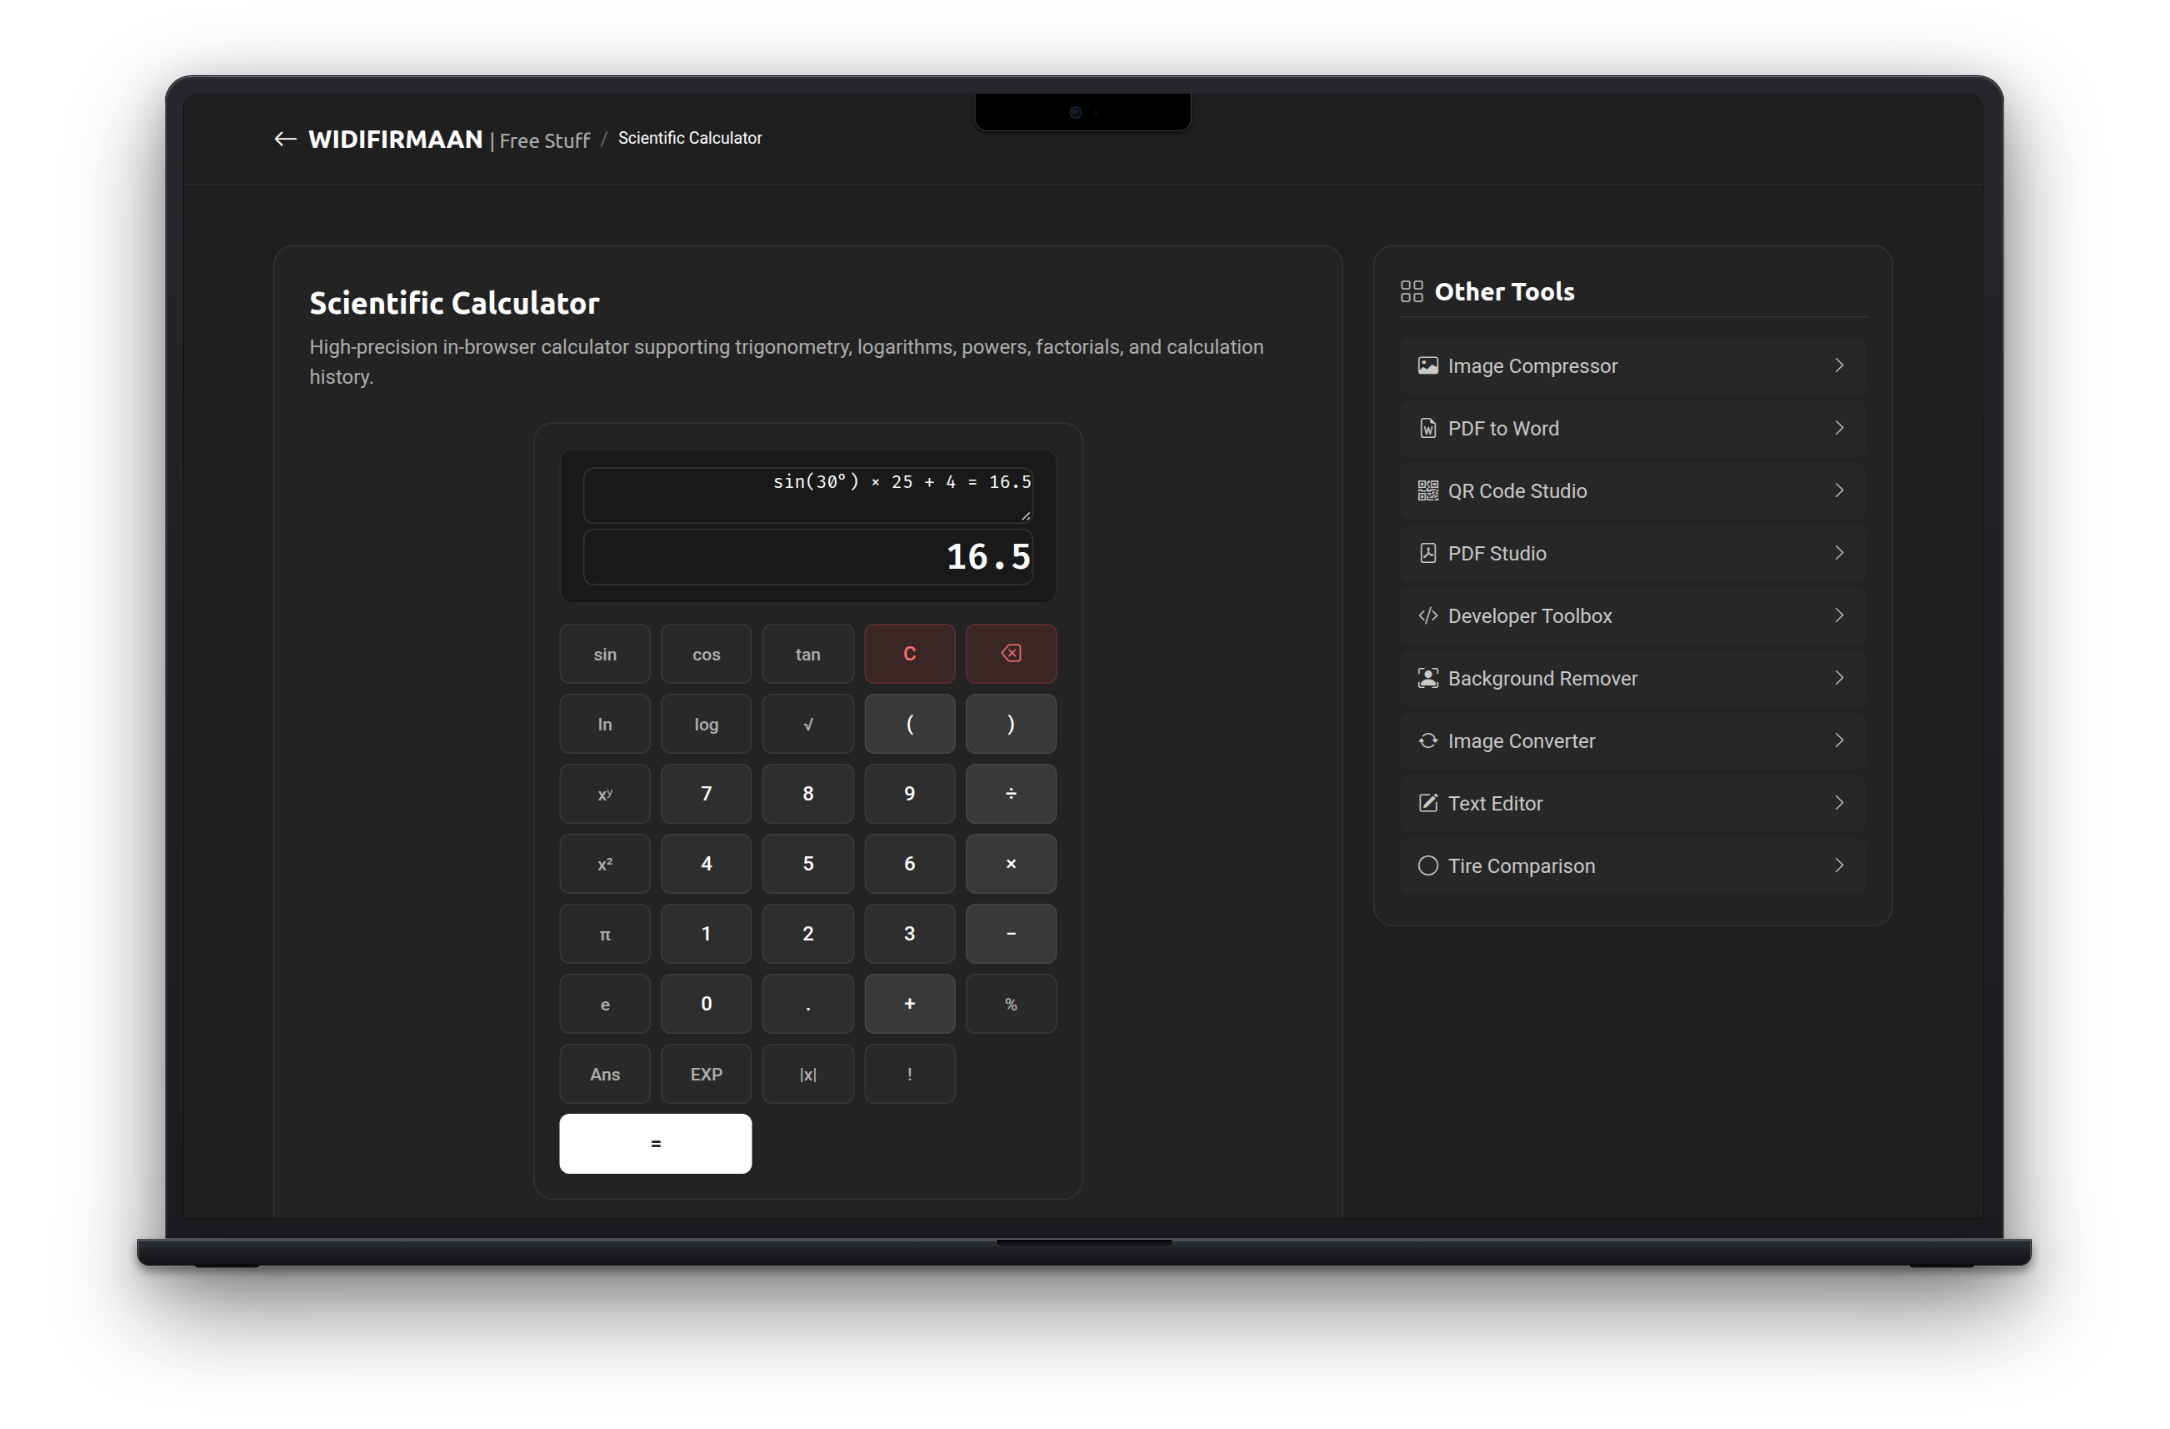
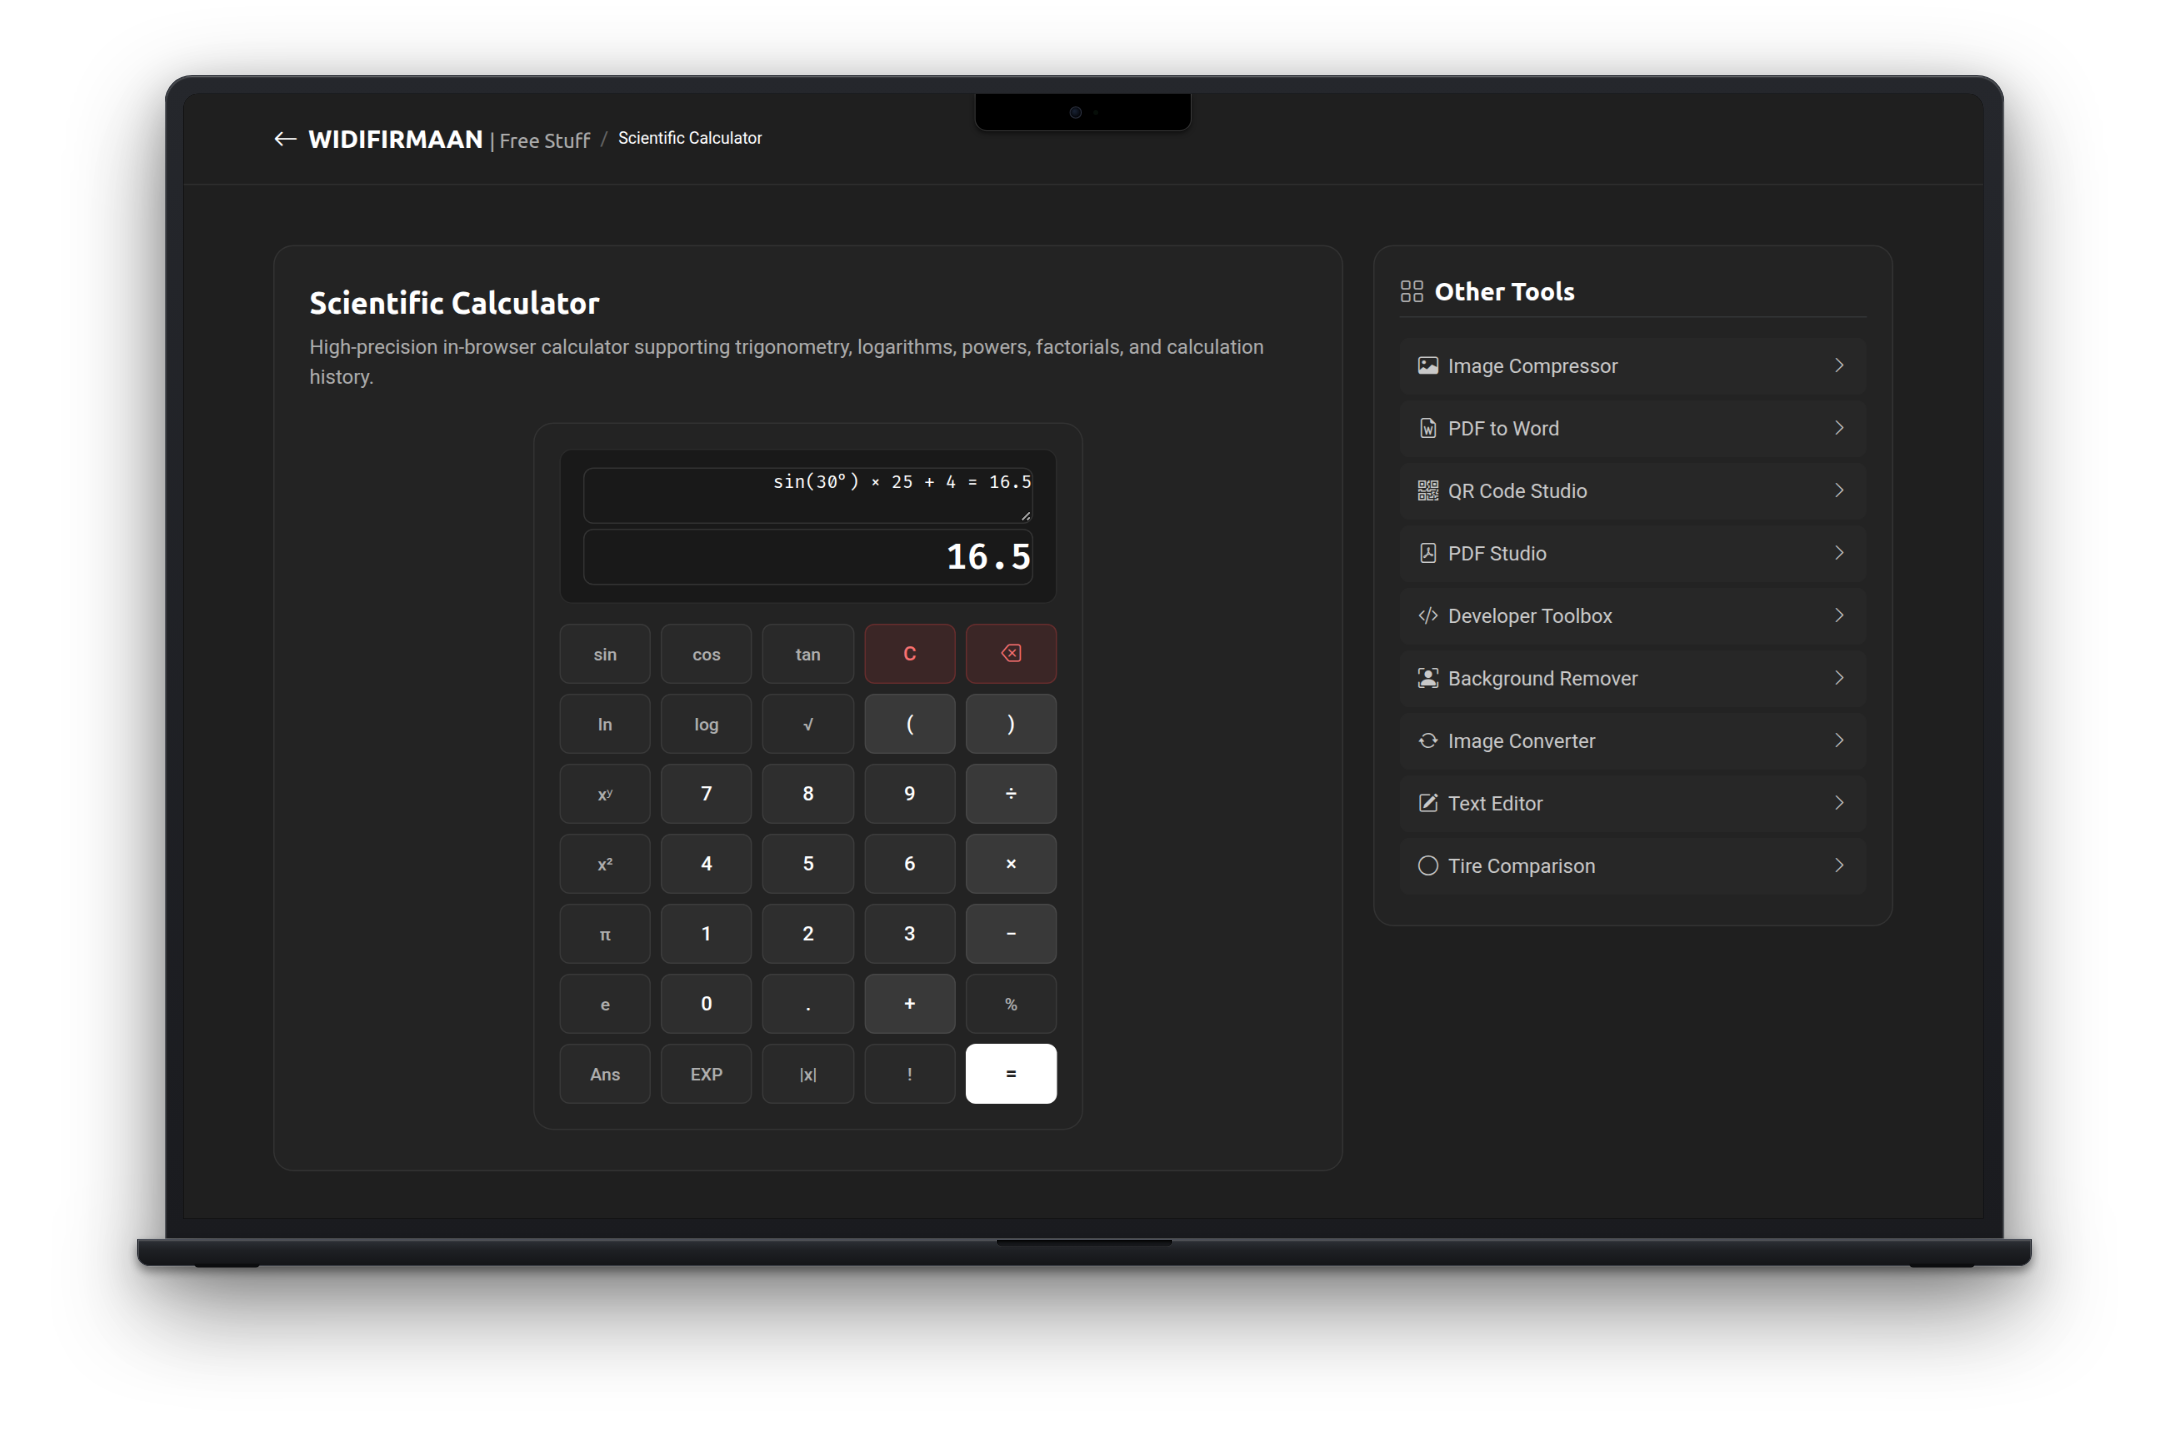
fix(ui): clean result box slop, support scanned images in pdf-to-word, align calc equal button, clean tire ui, fix bg remover progress

Changed region(s): [[0.247, 0.7698, 0.3705, 0.8314], [0.4323, 0.7082, 0.494, 0.7698]]

diff --git a/tools/tire-comp.html b/tools/tire-comp.html
@@ -18,8 +18,8 @@
 
   <style>
     .tire-container {
-      width: 140px;
-      height: 140px;
+      width: 130px;
+      height: 130px;
       display: flex;
       align-items: center;
       justify-content: center;
@@ -29,9 +29,8 @@
       width: 100%;
       height: 100%;
       border-radius: 50%;
-      background: radial-gradient(circle, #333 40%, #111 70%, #000 100%);
-      border: 8px solid #222;
-      box-shadow: 0 4px 15px rgba(0,0,0,0.6);
+      background: rgba(255, 255, 255, 0.03);
+      border: 4px solid rgba(255, 255, 255, 0.2);
       display: flex;
       align-items: center;
       justify-content: center;
@@ -42,14 +41,15 @@
       width: 55%;
       height: 55%;
       border-radius: 50%;
-      background: radial-gradient(circle, #777 0%, #444 80%, #222 100%);
-      border: 2px solid #888;
+      background: rgba(255, 255, 255, 0.06);
+      border: 2px dashed rgba(255, 255, 255, 0.4);
       display: flex;
       align-items: center;
       justify-content: center;
-      color: #aaa;
-      font-size: 0.75rem;
-      font-weight: bold;
+      color: #ffffff;
+      font-size: 0.8rem;
+      font-weight: 600;
+      font-family: 'Fira Code', monospace;
     }
   </style>
 </head>
@@ -89,10 +89,9 @@
               <div class="row g-3 mb-4">
                 <!-- Tire 1 (Original) -->
                 <div class="col-md-6">
-                  <div class="p-3 rounded border border-secondary border-opacity-25" style="background: #18181b;">
+                  <div class="p-3 rounded border border-secondary border-opacity-25" style="background: rgba(255, 255, 255, 0.02);">
                     <div class="d-flex justify-content-between align-items-center mb-3">
-                      <h6 class="text-primary fw-bold mb-0"><i class="bi bi-disc me-1"></i> Ban 1 (Standar / OEM)</h6>
-                      <span class="text-secondary small fw-semibold">Standar</span>
+                      <h6 class="text-white fw-bold mb-0"><i class="bi bi-disc me-2 text-secondary"></i>Tire 1 (OEM / Standar)</h6>
                     </div>
 
                     <div class="mb-2">
@@ -112,10 +111,9 @@
 
                 <!-- Tire 2 (New) -->
                 <div class="col-md-6">
-                  <div class="p-3 rounded border border-secondary border-opacity-25" style="background: #18181b;">
+                  <div class="p-3 rounded border border-secondary border-opacity-25" style="background: rgba(255, 255, 255, 0.02);">
                     <div class="d-flex justify-content-between align-items-center mb-3">
-                      <h6 class="text-success fw-bold mb-0"><i class="bi bi-disc-fill me-1"></i> Ban 2 (Baru / Pengganti)</h6>
-                      <span class="text-success small fw-semibold">Baru</span>
+                      <h6 class="text-white fw-bold mb-0"><i class="bi bi-disc me-2 text-secondary"></i>Tire 2 (Pengganti / Baru)</h6>
                     </div>
 
                     <div class="mb-2">
@@ -135,53 +133,53 @@
               </div>
 
               <div class="d-flex justify-content-center mb-4">
-                <button type="button" id="calculateBtn" class="btn btn-primary rounded-pill px-5 py-2 fw-semibold">
+                <button type="button" id="calculateBtn" class="btn btn-primary px-4 py-2 fw-semibold">
                   <i class="bi bi-calculator me-1"></i> Hitung Perbandingan Ban
                 </button>
               </div>
 
               <!-- Results Area -->
-              <div id="results" class="p-3 rounded border border-secondary border-opacity-25" style="background: #18181b;">
+              <div id="results" class="p-3 rounded border border-secondary border-opacity-25" style="background: rgba(255, 255, 255, 0.02);">
                 <h5 class="fw-bold text-white mb-3 pb-2 border-bottom border-secondary border-opacity-25">
-                  <i class="bi bi-bar-chart-fill text-info me-2"></i>Hasil Analisis Perbandingan
+                  <i class="bi bi-sliders me-2 text-secondary"></i>Hasil Analisis Perbandingan
                 </h5>
 
                 <div class="row g-3 text-center mb-4">
                   <div class="col-sm-4">
-                    <div class="p-2 rounded bg-black bg-opacity-25 border border-secondary border-opacity-10">
-                      <span class="text-secondary small d-block mb-1">Diameter Total</span>
+                    <div class="p-3 rounded border border-secondary border-opacity-25" style="background: rgba(255, 255, 255, 0.02);">
+                      <span class="text-secondary small d-block mb-1">Diameter Ban 1</span>
                       <strong class="text-white fs-5 d-block" id="diameter1Result">24.88" (631.9 mm)</strong>
-                      <span class="text-muted small">Ban 1</span>
+                      <span class="text-secondary small">OEM</span>
                     </div>
                   </div>
                   <div class="col-sm-4">
-                    <div class="p-2 rounded bg-black bg-opacity-25 border border-secondary border-opacity-10">
-                      <span class="text-secondary small d-block mb-1">Diameter Total</span>
-                      <strong class="text-success fs-5 d-block" id="diameter2Result">25.86" (656.8 mm)</strong>
-                      <span class="text-muted small">Ban 2</span>
+                    <div class="p-3 rounded border border-secondary border-opacity-25" style="background: rgba(255, 255, 255, 0.02);">
+                      <span class="text-secondary small d-block mb-1">Diameter Ban 2</span>
+                      <strong class="text-white fs-5 d-block" id="diameter2Result">25.86" (656.8 mm)</strong>
+                      <span class="text-secondary small">Baru</span>
                     </div>
                   </div>
                   <div class="col-sm-4">
-                    <div class="p-2 rounded bg-black bg-opacity-25 border border-secondary border-opacity-10">
+                    <div class="p-3 rounded border border-secondary border-opacity-25" style="background: rgba(255, 255, 255, 0.02);">
                       <span class="text-secondary small d-block mb-1">Selisih Diameter</span>
-                      <strong class="text-warning fs-5 d-block" id="diameterDiffResult">+0.98" (+3.94%)</strong>
-                      <span class="text-muted small" id="fitmentNotice">Toleransi Wajar</span>
+                      <strong class="text-white fs-5 d-block" id="diameterDiffResult">+0.98" (+3.94%)</strong>
+                      <span class="text-secondary small" id="fitmentNotice">Toleransi Wajar</span>
                     </div>
                   </div>
                 </div>
 
                 <!-- Speedometer Offset & Circumference -->
-                <div class="row g-3 text-center mb-3">
+                <div class="row g-3 text-center mb-4">
                   <div class="col-sm-6">
-                    <div class="p-2 rounded bg-black bg-opacity-25 border border-secondary border-opacity-10">
+                    <div class="p-3 rounded border border-secondary border-opacity-25" style="background: rgba(255, 255, 255, 0.02);">
                       <span class="text-secondary small d-block mb-1">Keliling Roda (Circumference)</span>
                       <span class="text-white d-block" id="circumferenceDiffResult">Ban 1: 78.16" | Ban 2: 81.24"</span>
                     </div>
                   </div>
                   <div class="col-sm-6">
-                    <div class="p-2 rounded bg-black bg-opacity-25 border border-secondary border-opacity-10">
+                    <div class="p-3 rounded border border-secondary border-opacity-25" style="background: rgba(255, 255, 255, 0.02);">
                       <span class="text-secondary small d-block mb-1">Speedometer pada 100 km/jam</span>
-                      <span class="text-info fw-bold d-block" id="speedoResult">Kecepatan Nyata: ~103.9 km/jam</span>
+                      <span class="text-white fw-bold d-block" id="speedoResult">Kecepatan Nyata: ~103.9 km/jam</span>
                     </div>
                   </div>
                 </div>
@@ -202,7 +200,7 @@
                         <div class="rim-circle" id="rimVisual2">R17</div>
                       </div>
                     </div>
-                    <span class="text-success small fw-semibold">Ban Baru</span>
+                    <span class="text-secondary small fw-semibold">Ban Baru</span>
                   </div>
                 </div>
               </div>

diff --git a/tools/pdf-word.html b/tools/pdf-word.html
@@ -109,9 +109,9 @@
               </div>
 
               <!-- Success & Download Box (Hidden initially) -->
-              <div id="resultBox" class="p-4 rounded border border-success border-opacity-50 text-center d-none" style="background: rgba(34, 197, 94, 0.06);">
-                <i class="bi bi-check-circle-fill text-success fs-1"></i>
-                <h5 class="mt-2 mb-1 text-white fw-bold">Conversion Complete!</h5>
+              <div id="resultBox" class="p-4 rounded border border-secondary border-opacity-25 text-center d-none" style="background: rgba(255, 255, 255, 0.02);">
+                <i class="bi bi-file-earmark-word text-white fs-1 mb-2 d-inline-block"></i>
+                <h5 class="mt-2 mb-1 text-white fw-bold">Document Ready</h5>
                 <p class="text-secondary small mb-3" id="resultFileName">Your Word document is ready.</p>
                 <div class="d-flex justify-content-center gap-2">
                   <a id="downloadBtn" href="#" class="btn btn-primary px-4 py-2">
@@ -359,7 +359,40 @@
           }
 
           if (!items || items.length === 0) {
-            docChildren.push(new docx.Paragraph({ children: [new docx.TextRun("[This page is an image or contains no extractable text]")] }));
+            // Render scanned / image-only page as high-res image into Word (.docx)
+            try {
+              progressStatus.textContent = `Rendering page ${pageNum} image...`;
+              const viewport = page.getViewport({ scale: 1.5 });
+              const offCanvas = document.createElement('canvas');
+              offCanvas.width = viewport.width;
+              offCanvas.height = viewport.height;
+              const offCtx = offCanvas.getContext('2d');
+              await page.render({ canvasContext: offCtx, viewport }).promise;
+
+              const dataUrl = offCanvas.toDataURL('image/jpeg', 0.85);
+              const b64 = dataUrl.split(',')[1];
+              const bin = atob(b64);
+              const bytes = new Uint8Array(bin.length);
+              for (let b = 0; b < bin.length; b++) bytes[b] = bin.charCodeAt(b);
+
+              const docWidth = 550;
+              const docHeight = Math.round(docWidth * (viewport.height / viewport.width));
+
+              docChildren.push(new docx.Paragraph({
+                children: [
+                  new docx.ImageRun({
+                    data: bytes,
+                    transformation: {
+                      width: docWidth,
+                      height: docHeight
+                    }
+                  })
+                ]
+              }));
+            } catch (imgErr) {
+              console.warn('Failed to render page image:', imgErr);
+              docChildren.push(new docx.Paragraph({ children: [new docx.TextRun("[Image could not be rendered]")] }));
+            }
             continue;
           }
 

diff --git a/tools/remove-bg.html b/tools/remove-bg.html
@@ -260,17 +260,34 @@
       const statusTitle = document.getElementById('statusTitle');
       const statusDesc = document.getElementById('statusDesc');
 
+      let maxDownloadPct = 0;
+      let isComputing = false;
+
       try {
         const blob = await removeBackground(file, {
           model: 'isnet_quint8',
           progress: (key, current, total) => {
-            if (total > 0) {
-              const pct = Math.min(100, Math.round((current / total) * 100));
-              if (statusTitle) statusTitle.textContent = `Loading AI Model (${pct}%)...`;
-              if (statusDesc) statusDesc.textContent = `${(current / (1024 * 1024)).toFixed(1)} MB of ${(total / (1024 * 1024)).toFixed(1)} MB downloaded`;
-            } else {
+            if (typeof key === 'string' && key.startsWith('compute')) {
+              isComputing = true;
               if (statusTitle) statusTitle.textContent = 'Removing background...';
-              if (statusDesc) statusDesc.textContent = 'Segmenting foreground subject locally.';
+              if (key.includes('inference')) {
+                if (statusDesc) statusDesc.textContent = 'Running AI subject segmentation...';
+              } else if (key.includes('mask') || key.includes('encode')) {
+                if (statusDesc) statusDesc.textContent = 'Refining transparent edges and saving...';
+              } else {
+                if (statusDesc) statusDesc.textContent = 'Processing image in browser memory...';
+              }
+              return;
+            }
+
+            if (!isComputing && typeof key === 'string' && key.includes('models') && total > 0) {
+              const pct = Math.min(100, Math.round((current / total) * 100));
+              if (pct > maxDownloadPct) maxDownloadPct = pct;
+              if (statusTitle) statusTitle.textContent = `Loading AI Model (${maxDownloadPct}%)...`;
+              if (statusDesc) statusDesc.textContent = `${(current / (1024 * 1024)).toFixed(1)} MB of ${(total / (1024 * 1024)).toFixed(1)} MB downloaded`;
+            } else if (!isComputing) {
+              if (statusTitle) statusTitle.textContent = 'Initializing AI engine...';
+              if (statusDesc) statusDesc.textContent = 'Setting up WebAssembly runtime.';
             }
           }
         });

diff --git a/assets/css/main.css b/assets/css/main.css
@@ -2791,7 +2791,6 @@ textarea:-ms-input-placeholder,
   background: #ffffff;
   color: #1f1f1f;
   font-weight: 700;
-  grid-column: span 2;
   border-color: #ffffff;
 }
 

diff --git a/README.md b/README.md
@@ -162,14 +162,6 @@ npx wrangler pages deploy . --project-name javascript-aio-tools --branch master
 
 ---
 
-## 🔒 Privacy & Security Guarantee
-
-- **Zero Server Uploads**: Your files, documents, photos, and JWT tokens never leave your local machine.
-- **RAM-Only Processing**: Files are processed in volatile memory via JavaScript Blobs and ArrayBuffers, automatically garbage-collected upon closing the tab.
-- **Zero Analytics Tracking**: No third-party trackers or user data collection.
-
----
-
 ## Author
 
 Developed by **[Widi Firmansyah](https://widifirmaan.web.id)**.
